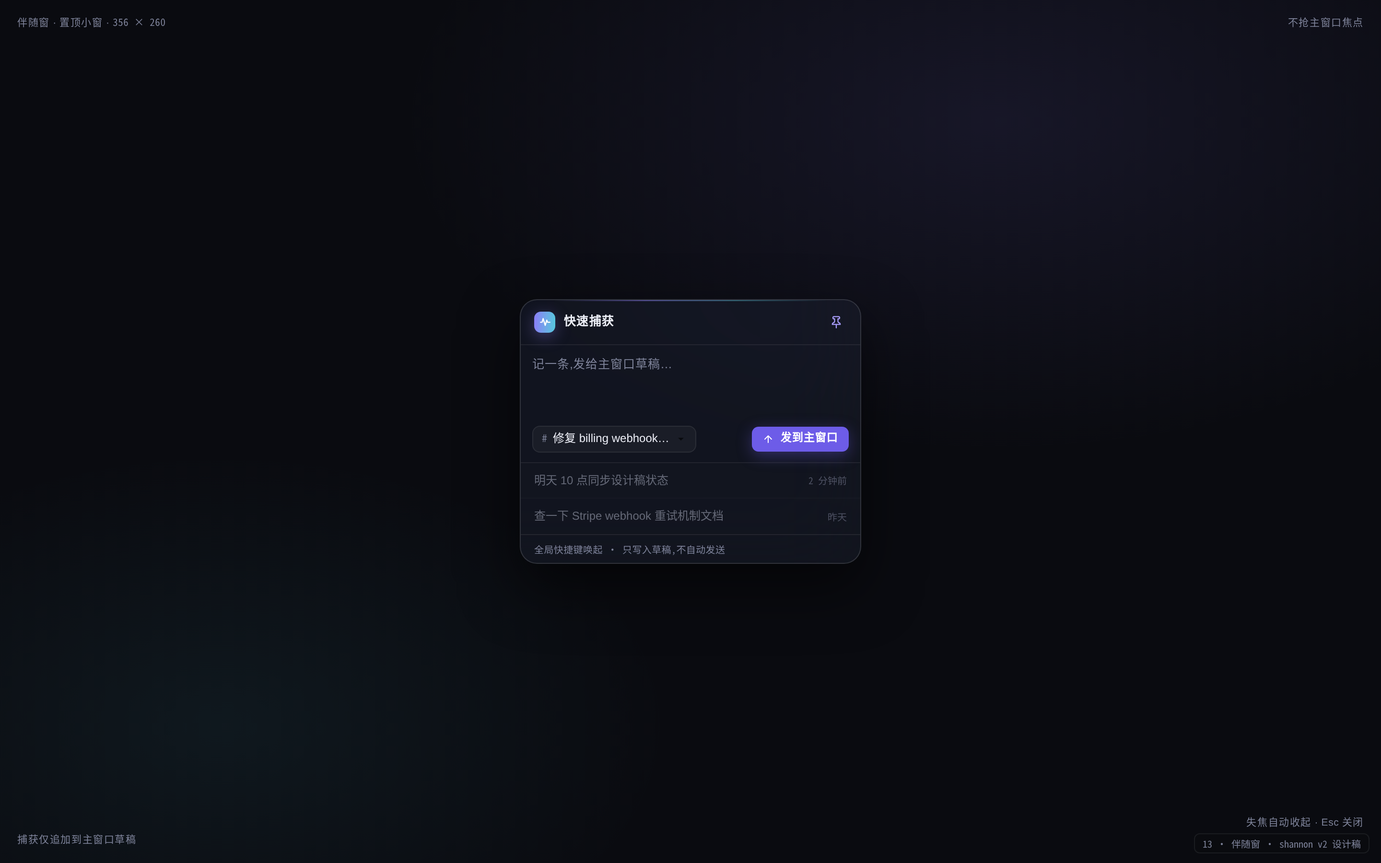
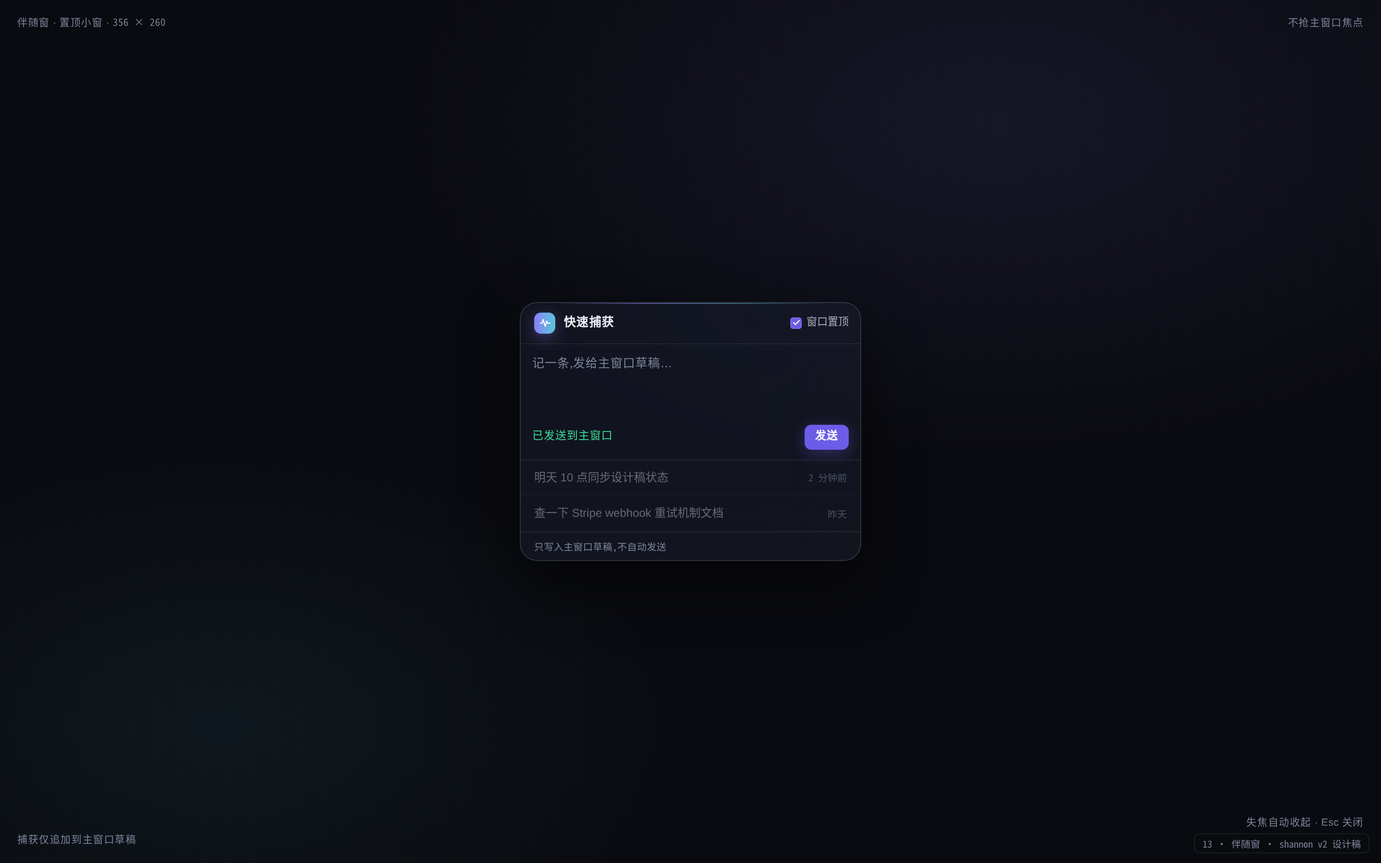
docs(design): 设计稿重绘收口——累积裁决折回 14 页 + 视觉收敛批 review doc 落库
对账 10 项（4 已在/6 按已落地形态重绘）：02/03 按 02c 提案折叠 composer D1-D5（+菜单/
权限当前档 chip/用量 38% chip/模型 chip/effort gauge），顺笔解除 R2 §7-C2 规格张力并删
/review 占位句（§7.1-⑤ 选 b）；06 峰值 KPI 改「峰值 X / 预算 Y（Z%）」（T2）；02c S3
会话峰值 % + 预算余；02 气泡 16px 右上直角实体紫（= MessageBubble.tsx:690）与「思考中…」
分态；13 companion 文案对齐实现；11 补「≥1280 双栏」规格注记（B1）；12-appearance 色板
accent #7aa2f7→#8b7cf7（ANSI 终端蓝不动）；--mono=JetBrains Mono 与 .ambient 逐值核对。
截图 6 张同名重出（1440×900 @2x，assets/shot.mjs），未改页不出图。
r4 review doc（S1 裁决 B/W4 逐页表/RD 对账表 + PR #411 合并记录）随本 PR 落库。

diff --git a/docs/design/ui-redesign-2026-10/pages/02-chat.html b/docs/design/ui-redesign-2026-10/pages/02-chat.html
@@ -36,6 +36,7 @@
   <symbol id="i-gear" viewBox="0 0 24 24"><circle cx="12" cy="12" r="3"/><path d="M19.4 15a1.65 1.65 0 0 0 .33 1.82l.06.06a2 2 0 1 1-2.83 2.83l-.06-.06a1.65 1.65 0 0 0-1.82-.33 1.65 1.65 0 0 0-1 1.51V21a2 2 0 1 1-4 0v-.09a1.65 1.65 0 0 0-1-1.51 1.65 1.65 0 0 0-1.82.33l-.06.06a2 2 0 1 1-2.83-2.83l.06-.06a1.65 1.65 0 0 0 .33-1.82 1.65 1.65 0 0 0-1.51-1H3a2 2 0 1 1 0-4h.09a1.65 1.65 0 0 0 1.51-1 1.65 1.65 0 0 0-.33-1.82l-.06-.06a2 2 0 1 1 2.83-2.83l.06.06a1.65 1.65 0 0 0 1.82.33h.08a1.65 1.65 0 0 0 1-1.51V3a2 2 0 1 1 4 0v.09a1.65 1.65 0 0 0 1 1.51h.08a1.65 1.65 0 0 0 1.82-.33l.06-.06a2 2 0 1 1 2.83 2.83l-.06.06a1.65 1.65 0 0 0-.33 1.82v.08a1.65 1.65 0 0 0 1.51 1H21a2 2 0 1 1 0 4h-.09a1.65 1.65 0 0 0-1.51 1z"/></symbol>
   <symbol id="i-folder" viewBox="0 0 24 24"><path d="M22 19a2 2 0 0 1-2 2H4a2 2 0 0 1-2-2V5a2 2 0 0 1 2-2h5l2 3h9a2 2 0 0 1 2 2z"/></symbol>
   <symbol id="i-chart" viewBox="0 0 24 24"><path d="M18 20V10M12 20V4M6 20v-6"/></symbol>
+  <symbol id="i-gauge" viewBox="0 0 24 24"><path d="M20.5 14.5a8.5 8.5 0 1 0-17 0"/><path d="M12 14.5l3.6-3.6"/></symbol>
   <symbol id="i-db" viewBox="0 0 24 24"><ellipse cx="12" cy="5" rx="9" ry="3"/><path d="M21 12c0 1.66-4 3-9 3s-9-1.34-9-3M3 5v14c0 1.66 4 3 9 3s9-1.34 9-3V5"/></symbol>
   <symbol id="i-grid" viewBox="0 0 24 24"><path d="M3 3h7v7H3zM14 3h7v7h-7zM14 14h7v7h-7zM3 14h7v7H3z"/></symbol>
   <symbol id="i-bolt" viewBox="0 0 24 24"><path d="M13 2L3 14h9l-1 8 10-12h-9l1-8z"/></symbol>
@@ -141,13 +142,16 @@
     <div class="content">
       <div class="stream">
 
-        <!-- 用户消息 -->
+        <!-- 用户消息(气泡形制见 shannon-ui.css .msg-user —— 2026-10-15 按 R3 §4 收口回改:
+             实体亮紫底/深紫字/右上直角,MessageBubble.tsx:690 bg-primary-fixed rounded-tr-none) -->
         <div class="msg-user">生产环境的 billing webhook 一直在报签名校验失败,帮我定位一下原因并修复。</div>
 
         <!-- 助手回合 -->
         <div class="msg-ai">
           <div class="avatar"><svg><use href="#i-logo"/></svg></div>
           <div class="body">
+            <!-- T1(视觉收敛批已落地):完成态思考头 = 「已思考 N 秒」(reasoning_duration_ms
+                 可推导时);推导不出 → 素「已思考」,绝不编造时长(MessageBubble.tsx:799)。 -->
             <div class="think">
               <div class="h"><svg class="ic"><use href="#i-spark"/></svg> 已思考 6 秒<svg class="ic" style="margin-left:6px"><use href="#i-chev-d"/></svg></div>
               <p class="mt8">签名校验失败常见于:密钥轮换后未同步、时间戳容差、payload 编码差异。先看 webhook 验签代码和最近一次失败日志,再对照 Stripe 文档的签名规范。</p>
@@ -232,7 +236,9 @@
           <div class="avatar"><svg><use href="#i-logo"/></svg></div>
           <div class="body">
             <div class="think">
-              <div class="h"><svg class="ic"><use href="#i-spark"/></svg> 正在整理升级注意事项…</div>
+              <!-- 进行中思考头 = 「思考中…」(chat.streaming.thinking;完成态才挂时长,
+                   R3 §4 分态裁决 + StreamingResponse.tsx:80) -->
+              <div class="h"><svg class="ic"><use href="#i-spark"/></svg> 思考中…</div>
             </div>
             <div class="toolstack">
               <button class="tool">
@@ -253,39 +259,34 @@
       <div class="composer aurora-line">
         <div class="ta"><textarea rows="2" placeholder="回复 Shannon,或输入 / 唤起技能、@ 引用文件…"></textarea></div>
         <div class="compose-row">
-          <!-- 2026-10-14 R2:词汇按权限命名 v2 回改(与 02c D7 同口径)——
-               四档主词 = 询问 / 自动编辑 / 计划 / 全自动,对齐实现 approvalModes.ts 单词汇表;
-               副语见 02c S4 弹层。 -->
-          <div class="seg">
-            <button><svg class="ic"><use href="#i-shield"/></svg>询问</button>
-            <button class="on"><svg class="ic"><use href="#i-edit"/></svg>自动编辑</button>
-            <button>计划</button>
-            <button>全自动</button>
-          </div>
-          <button class="chip"><span class="cv">claude-sonnet-4-6</span><svg class="caret"><use href="#i-chev-d"/></svg></button>
-          <button class="chip">推理<span class="cv">标准</span><svg class="caret"><use href="#i-chev-d"/></svg></button>
-          <button class="chip"><svg class="ic"><use href="#i-at"/></svg><span class="cv">shannon-mono</span></button>
+          <!-- 2026-10-15 重绘收口:02c 裁决 D1-D5 折叠入主对话页(02c 提案 ②/A1-A4 形态,
+               与 ChatInput.tsx 落地一致)—— 规划/执行档位与权限四档分段移除(D1/D3):
+               权限 = 当前档 chip,点击弹四档下拉(逐档副语 + 高危提示,见 02c S4);
+               用量 = 38% chip(数字收编弹框,见 02c S3);effort = 可点 gauge chip(D2,
+               标准档低对比);@ 引用经 placeholder 教学,不占常驻位。词汇 = 权限命名 v2。 -->
+          <button class="iconbtn attach-dot"><svg class="ic"><use href="#i-plus"/></svg></button>
+          <button class="chip acc"><svg class="ic"><use href="#i-edit"/></svg><span class="cv">自动编辑</span><svg class="caret"><use href="#i-chev-d"/></svg></button>
+          <button class="chip" title="会话用量与上下文窗口"><svg class="ic"><use href="#i-chart"/></svg><span class="cv mono" style="font-size:11px">38%</span></button>
+          <button class="chip"><svg class="ic"><use href="#i-spark"/></svg><span class="cv">claude-sonnet-4-6</span><svg class="caret"><use href="#i-chev-d"/></svg></button>
+          <button class="chip"><svg class="ic"><use href="#i-gauge"/></svg>推理<span style="display:inline-flex;align-items:center;gap:2.5px"><i style="width:5.5px;height:5.5px;border-radius:99px;background:var(--vio-2)"></i><i style="width:5.5px;height:5.5px;border-radius:99px;background:var(--vio-2)"></i><i style="width:5.5px;height:5.5px;border-radius:99px;background:var(--vio-2)"></i><i style="width:5.5px;height:5.5px;border-radius:99px;background:rgba(255,255,255,.16)"></i></span><span class="cv">深</span><svg class="caret"><use href="#i-chev-d"/></svg></button>
           <span class="spacer"></span>
-          <button class="iconbtn attach-dot"><svg class="ic"><use href="#i-clip"/></svg></button>
           <button class="iconbtn"><svg class="ic"><use href="#i-mic"/></svg></button>
           <button class="send stop"><svg class="ic"><use href="#i-stop"/></svg></button>
         </div>
       </div>
-      <!-- 规格标注(F-9 响应式降级,非 UI 元素) -->
+      <!-- 规格标注(F-9 响应式降级,非 UI 元素;2026-10-15 按 02c D3「各宽度同一形态」
+           口径回改 —— R2 §7-C2 张力解除) -->
       <div style="max-width:792px;margin:8px auto 0;text-align:center;font-size:10.5px;color:var(--t3);border:1px dashed var(--hair);border-radius:8px;padding:4px 10px">
-        响应式:&lt;1360px 右停靠自动折叠(图标呼出) · &lt;1200px 执行模式折叠为「当前档 chip」,三要素恒可达
+        响应式:&lt;1360px 右停靠自动折叠(图标呼出) · composer 控件各宽度同一形态(02c D3,无 1200px 断点折叠;&lt;1200px 仅 gauge 四点收缩为 icon+档位词)
       </div>
     </div>
 
-    <!-- 状态条 -->
+    <!-- 状态条(02c 裁决 D5:仅目录 + 分支,缺席即隐藏 —— 上下文/缓存/花费/预算数字
+         由用量 %chip → SessionUsageDialog 承载(02c S3);r4 W4 已登记「无会话统计数字
+         非缺口」,本稿据此移除旧状态条数字段) -->
     <div class="statusbar">
       <span class="seg2"><svg class="ic"><use href="#i-folder"/></svg>~/work/shannon/shannon-mono</span>
       <span class="seg2"><svg class="ic"><use href="#i-branch"/></svg>fix/billing-webhook</span>
-      <span class="spacer"></span>
-      <span class="seg2"><svg class="ic"><use href="#i-db"/></svg>上下文 38% · 74k/200k</span>
-      <span class="seg2" style="color:var(--ok)">缓存命中 92%</span>
-      <span class="seg2">本会话 <b class="money" style="color:var(--t2)">$0.087</b></span>
-      <span class="seg2">预算余 $19.91</span>
     </div>
   </div>
 

diff --git a/docs/design/ui-redesign-2026-10/pages/03-chat-review.html b/docs/design/ui-redesign-2026-10/pages/03-chat-review.html
@@ -46,6 +46,7 @@
   <symbol id="i-gear" viewBox="0 0 24 24"><circle cx="12" cy="12" r="3"/><path d="M19.4 15a1.65 1.65 0 0 0 .33 1.82l.06.06a2 2 0 1 1-2.83 2.83l-.06-.06a1.65 1.65 0 0 0-1.82-.33 1.65 1.65 0 0 0-1 1.51V21a2 2 0 1 1-4 0v-.09a1.65 1.65 0 0 0-1-1.51 1.65 1.65 0 0 0-1.82.33l-.06.06a2 2 0 1 1-2.83-2.83l.06-.06a1.65 1.65 0 0 0 .33-1.82 1.65 1.65 0 0 0-1.51-1H3a2 2 0 1 1 0-4h.09a1.65 1.65 0 0 0 1.51-1 1.65 1.65 0 0 0-.33-1.82l-.06-.06a2 2 0 1 1 2.83-2.83l.06.06a1.65 1.65 0 0 0 1.82.33h.08a1.65 1.65 0 0 0 1-1.51V3a2 2 0 1 1 4 0v.09a1.65 1.65 0 0 0 1 1.51h.08a1.65 1.65 0 0 0 1.82-.33l.06-.06a2 2 0 1 1 2.83 2.83l-.06.06a1.65 1.65 0 0 0-.33 1.82v.08a1.65 1.65 0 0 0 1.51 1H21a2 2 0 1 1 0 4h-.09a1.65 1.65 0 0 0-1.51 1z"/></symbol>
   <symbol id="i-folder" viewBox="0 0 24 24"><path d="M22 19a2 2 0 0 1-2 2H4a2 2 0 0 1-2-2V5a2 2 0 0 1 2-2h5l2 3h9a2 2 0 0 1 2 2z"/></symbol>
   <symbol id="i-chart" viewBox="0 0 24 24"><path d="M18 20V10M12 20V4M6 20v-6"/></symbol>
+  <symbol id="i-gauge" viewBox="0 0 24 24"><path d="M20.5 14.5a8.5 8.5 0 1 0-17 0"/><path d="M12 14.5l3.6-3.6"/></symbol>
   <symbol id="i-db" viewBox="0 0 24 24"><ellipse cx="12" cy="5" rx="9" ry="3"/><path d="M21 12c0 1.66-4 3-9 3s-9-1.34-9-3M3 5v14c0 1.66 4 3 9 3s9-1.34 9-3V5"/></symbol>
   <symbol id="i-grid" viewBox="0 0 24 24"><path d="M3 3h7v7H3zM14 3h7v7h-7zM14 14h7v7h-7zM3 14h7v7H3z"/></symbol>
   <symbol id="i-bolt" viewBox="0 0 24 24"><path d="M13 2L3 14h9l-1 8 10-12h-9l1-8z"/></symbol>
@@ -232,27 +233,25 @@
     <!-- composer 恒见(L1 玻璃 + 极光发丝线) -->
     <div class="composer-wrap">
       <div class="composer aurora-line">
-        <div class="ta"><textarea rows="2" placeholder="对改动提问,或 /review 生成评审意见…"></textarea></div>
+        <!-- 2026-10-15 重绘收口:02c 裁决 D1-D5 折叠入本页(形态注释与 02-chat 同源)。
+             占位句原为「对改动提问,或 /review 生成评审意见…」—— /review 自动评审意见
+             功能未立项(R2 §7.1-⑤ 裁决选 b),删句,实现维持不提示。 -->
+        <div class="ta"><textarea rows="2" placeholder="对改动提问…"></textarea></div>
         <div class="compose-row">
-          <!-- 2026-10-14 R2:词汇按权限命名 v2 回改(与 02c D7 同口径)——四档主词 = 询问 / 自动编辑 / 计划 / 全自动 -->
-          <div class="seg">
-            <button>询问</button>
-            <button class="on"><svg class="ic"><use href="#i-shield"/></svg>自动编辑</button>
-            <button>计划</button>
-            <button>全自动</button>
-          </div>
-          <button class="chip"><span class="cv">claude-sonnet-4-6</span><svg class="caret"><use href="#i-chev-d"/></svg></button>
-          <button class="chip">推理<span class="cv">标准</span><svg class="caret"><use href="#i-chev-d"/></svg></button>
-          <button class="chip"><svg class="ic"><use href="#i-at"/></svg><span class="cv">shannon-mono</span></button>
+          <button class="iconbtn attach-dot"><svg class="ic"><use href="#i-plus"/></svg></button>
+          <button class="chip acc"><svg class="ic"><use href="#i-edit"/></svg><span class="cv">自动编辑</span><svg class="caret"><use href="#i-chev-d"/></svg></button>
+          <button class="chip" title="会话用量与上下文窗口"><svg class="ic"><use href="#i-chart"/></svg><span class="cv mono" style="font-size:11px">38%</span></button>
+          <button class="chip"><svg class="ic"><use href="#i-spark"/></svg><span class="cv">claude-sonnet-4-6</span><svg class="caret"><use href="#i-chev-d"/></svg></button>
+          <button class="chip"><svg class="ic"><use href="#i-gauge"/></svg>推理<span style="display:inline-flex;align-items:center;gap:2.5px"><i style="width:5.5px;height:5.5px;border-radius:99px;background:rgba(255,255,255,.16)"></i><i style="width:5.5px;height:5.5px;border-radius:99px;background:rgba(255,255,255,.16)"></i><i style="width:5.5px;height:5.5px;border-radius:99px;background:rgba(255,255,255,.16)"></i><i style="width:5.5px;height:5.5px;border-radius:99px;background:rgba(255,255,255,.16)"></i></span><span class="cv">标准</span><svg class="caret"><use href="#i-chev-d"/></svg></button>
           <span class="spacer"></span>
-          <button class="iconbtn attach-dot"><svg class="ic"><use href="#i-clip"/></svg></button>
           <button class="iconbtn"><svg class="ic"><use href="#i-mic"/></svg></button>
           <button class="send stop"><svg class="ic"><use href="#i-stop"/></svg></button>
         </div>
       </div>
-      <!-- 规格标注(F-9 响应式降级,非 UI 元素) -->
+      <!-- 规格标注(F-9 响应式降级,非 UI 元素;2026-10-15 按 02c D3「各宽度同一形态」
+           口径回改 —— R2 §7-C2 张力解除) -->
       <div style="max-width:792px;margin:8px auto 0;text-align:center;font-size:10.5px;color:var(--t3);border:1px dashed var(--hair);border-radius:8px;padding:4px 10px">
-        响应式:&lt;1360px 右停靠自动折叠(图标呼出) · &lt;1200px 执行模式折叠为「当前档 chip」,三要素恒可达
+        响应式:&lt;1360px 右停靠自动折叠(图标呼出) · composer 控件各宽度同一形态(02c D3,无 1200px 断点折叠;&lt;1200px 仅 gauge 四点收缩为 icon+档位词)
       </div>
     </div>
   </div>

diff --git a/docs/design/ui-redesign-2026-10/pages/13-companion.html b/docs/design/ui-redesign-2026-10/pages/13-companion.html
@@ -104,6 +104,10 @@
 <span class="desk-note dn-bl">捕获仅追加到主窗口草稿</span>
 <span class="desk-note dn-br">失焦自动收起 · Esc 关闭</span>
 
+<!-- 2026-10-15 重绘收口(R3 §4 遗留「companion 文案微差」):标题/占位句不变;
+     置顶 = 「窗口置顶」勾选项(非图标钮,CompanionPage.tsx:147);发送钮 = 「发送」;
+     行内状态 = 成功回执「已发送到主窗口」(至多一条:回执/错误/空);原「# 会话」
+     目标 chip 实现不存在,删除;底部契约句对齐 companion.footer.hint。 -->
 <div class="companion-win glass-2 aurora-line">
 
   <!-- 窗头 -->
@@ -111,25 +115,18 @@
     <div class="brandmark bm"><svg><use href="#i-logo"/></svg></div>
     <span class="cw-title">快速捕获</span>
     <span class="spacer"></span>
-    <button class="iconbtn" style="width:26px;height:26px" title="置顶">
-      <svg class="ic" viewBox="0 0 24 24" style="width:14px;height:14px;color:var(--vio-2)">
-        <path d="M12 17v5"/>
-        <path d="M9 10.76a2 2 0 0 1-1.11 1.79l-1.78.9A2 2 0 0 0 5 15.24V16h14v-.76a2 2 0 0 0-1.11-1.79l-1.78-.9A2 2 0 0 1 15 10.76V6h1a2 2 0 0 0 0-4H8a2 2 0 0 0 0 4h1z"/>
-      </svg>
-    </button>
+    <label style="display:inline-flex;align-items:center;gap:5px;font-size:11px;color:var(--t2);cursor:pointer">
+      <span style="width:12px;height:12px;border-radius:3px;border:1px solid rgba(139,124,247,.5);background:var(--vio-deep);display:inline-grid;place-items:center;flex:none"><svg class="ic" style="width:9px;height:9px;color:#fff;stroke-width:3"><use href="#i-check"/></svg></span>窗口置顶
+    </label>
   </div>
 
   <!-- 输入 -->
   <div class="cw-body">
     <textarea rows="3" placeholder="记一条,发给主窗口草稿…"></textarea>
     <div class="cw-row">
-      <button class="chip">
-        <span class="mono" style="font-size:11px;color:var(--t3)">#</span>
-        <span class="cv">修复 billing webhook…</span>
-        <svg class="caret"><use href="#i-chev-d"/></svg>
-      </button>
+      <span style="font-size:11.5px;color:var(--ok)">已发送到主窗口</span>
       <span class="spacer"></span>
-      <button class="btn pri sm"><svg class="ic"><use href="#i-send"/></svg>发到主窗口</button>
+      <button class="btn pri sm">发送</button>
     </div>
   </div>
 
@@ -151,8 +148,8 @@
     </div>
   </div>
 
-  <!-- 底部 hint -->
-  <div class="cw-foot">全局快捷键唤起 · 只写入草稿,不自动发送</div>
+  <!-- 底部 hint(对齐 companion.footer.hint:「只写入主窗口草稿,不自动发送」) -->
+  <div class="cw-foot">只写入主窗口草稿,不自动发送</div>
 
 </div>
 <div class="mocktag">13 · 伴随窗 · shannon v2 设计稿</div>

diff --git a/docs/design/ui-redesign-2026-10/pages/02c-chat-composer-tidy.html b/docs/design/ui-redesign-2026-10/pages/02c-chat-composer-tidy.html
@@ -353,7 +353,7 @@
 
       <div class="statebox">
         <div class="sb-h">S3 · 会话用量弹框(D4 裁决)<span class="kbd">点击模型旁 38% 图标</span></div>
-        <div class="sb-d">上下文 / 缓存 / 花费 / 预算数字全部收进弹框;状态条只留目录与分支,不再显示数字与金额。</div>
+        <div class="sb-d">上下文 / 缓存 / 会话峰值 / 花费 / 预算数字全部收进弹框(峰值行为 T2 百分比形态);状态条只留目录与分支,不再显示数字与金额。</div>
         <div class="sb-stage" style="height:330px">
           <div class="cpop" style="left:50%;transform:translateX(-50%);bottom:126px;width:252px">
             <div class="csec">会话用量</div>
@@ -363,8 +363,12 @@
             </div>
             <div class="cdiv" style="margin-top:7px"></div>
             <div class="kv" style="padding:4px 12px"><span style="font-size:11px">缓存命中</span><b class="mono" style="color:var(--ok);font-size:11px">92%</b></div>
-            <div class="kv" style="padding:4px 12px"><span style="font-size:11px">窗口峰值</span><b class="mono" style="font-size:11px">96k</b></div>
-            <div class="kv" style="padding:4px 12px"><span style="font-size:11px">本会话花费 / 预算余</span><b class="mono" style="font-size:11px">$0.087 / $19.91</b></div>
+            <!-- T2(视觉收敛批已落地):峰值行 = 「会话峰值 X / 预算 Y(Z%)」 —— peak_used +
+                 窗口预算同在时渲染百分比形态(chat.input.usage.sessionPeak.pct),仅窗口时
+                 绝对值,两者皆缺 → 整行隐藏;绝不拿窗口当用量编百分比(SessionUsageDialog.tsx:66) -->
+            <div class="kv" style="padding:4px 12px"><span style="font-size:11px">会话峰值</span><b class="mono" style="font-size:11px">9.6万 / 20万（48%）</b></div>
+            <!-- 预算行口径 = 「花费 / 预算余」(余 = 上限 − 已花,可超支为负)+ 设置入口 -->
+            <div class="kv" style="padding:4px 12px"><span style="font-size:11px">$0.087 / $19.91 预算余</span><span class="chip" style="height:20px;font-size:10px;padding:0 8px"><svg class="ic" style="width:11px;height:11px"><use href="#i-chart"/></svg>设置会话预算…</span></div>
             <div class="cnote">数字缺席即隐藏(诚实契约);发送前预估行(草稿下方)不受影响。</div>
           </div>
           <div class="composer mini" style="bottom:44px">

diff --git a/docs/design/ui-redesign-2026-10/assets/shannon-ui.css b/docs/design/ui-redesign-2026-10/assets/shannon-ui.css
@@ -65,7 +65,9 @@ body {
   -webkit-font-smoothing: antialiased;
   overflow: hidden;
 }
-/* 页面环境光:极光余晖,极低强度,只出现在窗口上缘 */
+/* 页面环境光:极光余晖,极低强度,只出现在窗口上缘
+   (W1 已落地:实现 aurora-ambient 与本稿逐值一致,index.css:451;
+    浅色主题实现侧把两枚 alpha 减半 —— .05/.035,属应用侧细节,稿不改) */
 .ambient { position: fixed; inset: 0; pointer-events: none; z-index: 0;
   background:
     radial-gradient(1100px 340px at 22% -8%, rgba(139,124,247,.10), transparent 60%),
@@ -360,8 +362,13 @@ input, textarea { font: inherit; color: var(--t1); background: none; border: 0; 
 
 /* ---------- 消息流(对话页) ---------- */
 .stream { max-width: 792px; margin: 0 auto; padding: 26px 24px 30px; display: flex; flex-direction: column; gap: 22px; }
-.msg-user { align-self: flex-end; max-width: 78%; background: var(--vio-dim); border: 1px solid rgba(139,124,247,.28);
-  border-radius: 16px 16px 4px 16px; padding: 10px 14px; font-size: 13.5px; color: var(--t1); }
+/* 用户气泡(2026-10-15 重绘收口:R3 §4「用户气泡圆角/头像形态」按已落地形态回改 ——
+   MessageBubble.tsx:690 bg-primary-fixed + text-on-primary-fixed + rounded-2xl rounded-tr-none:
+   实体亮紫底 #e9ddff / 深紫字 #23005c(主题无关 fixed token),无描边,右上角直角,其余 16px) */
+.msg-user { align-self: flex-end; max-width: 78%; background: #e9ddff; color: #23005c;
+  border-radius: 16px 0 16px 16px; padding: 10px 14px; font-size: 13.5px; font-weight: 500;
+  box-shadow: var(--sh-1); }
+.msg-user b { font-weight: 650; }
 .msg-ai { display: flex; gap: 11px; }
 .msg-ai .avatar { width: 26px; height: 26px; border-radius: 8px; flex: none; margin-top: 2px;
   background: var(--grad-aurora); display: grid; place-items: center; color: #fff; box-shadow: 0 3px 12px rgba(139,124,247,.3); }

diff --git a/docs/design/ui-redesign-2026-10/pages/11-files.html b/docs/design/ui-redesign-2026-10/pages/11-files.html
@@ -190,7 +190,8 @@
               <div class="thumb"><svg class="ic" style="color:var(--warn)"><use href="#i-image"/></svg></div>
               <div class="fn">old-logo.ai</div>
               <div class="fm">1.2 MB · 08-11</div>
-              <span class="honest"><svg class="ic" style="width:11px;height:11px"><use href="#i-alert"/></svg>原文件已移动</span>
+              <!-- 文案对齐实现 office.files.missing(「原文件已移动或删除」) -->
+              <span class="honest"><svg class="ic" style="width:11px;height:11px"><use href="#i-alert"/></svg>原文件已移动或删除</span>
             </div>
             <div class="filecell">
               <div class="thumb"><svg class="ic"><use href="#i-play"/></svg></div>
@@ -227,6 +228,14 @@
             </div>
           </div>
 
+        </div>
+
+        <!-- 2026-10-15 收口注记:B1 预览面板已落地 —— ≥1280px = 本稿双栏
+             (1fr + 320px 预览卡,格内 打开/显示/来源回跳/收藏 全部回撤进卡);
+             <1280px 降级单栏(FilesPage.tsx:69 WIDE_QUERY)。提取徽章画在预览卡
+             (extracted_segments 门控,缺席不显示),网格格行不带徽章 —— 与实现一致。 -->
+        <div style="text-align:center;font-size:10.5px;color:var(--t3);border:1px dashed var(--hair);border-radius:8px;padding:4px 10px">
+          响应式:≥1280px 双栏(网格 + 320px 预览卡,格内临时操作回撤进卡) · &lt;1280px 降级单栏
         </div>
       </div>
     </div>

diff --git a/docs/design/ui-redesign-2026-10/pages/06-usage.html b/docs/design/ui-redesign-2026-10/pages/06-usage.html
@@ -166,10 +166,14 @@
             <div class="v">92<small>%</small></div>
             <div class="d"><span class="up">为你在本月省下 <span class="money">$6.71</span></span></div>
           </div>
+          <!-- 上下文峰值(2026-10-15 重绘收口,T2 已落地形态):值 = 峰值已用 token
+               (peak_context_used_tokens 跨会话取最大,Usage.tsx:747),副行 =
+               「{持有会话}（{峰值/窗口}%）」(usage.stat.contextPeak.pct);无数据 →
+               「—」+「暂无会话峰值」,绝不拿窗口 200k 当用量。 -->
           <div class="stat glass">
             <div class="k"><svg class="ic"><use href="#i-target"/></svg>上下文峰值</div>
-            <div class="v">61<small>%</small></div>
-            <div class="d"><span class="mono">200k</span> 窗口 · 修复 billing 会话</div>
+            <div class="v money">7.6万</div>
+            <div class="d">修复 billing webhook 签名校验（38%）</div>
           </div>
         </div>
 

diff --git a/docs/design/ui-redesign-2026-10/pages/12-settings-appearance.html b/docs/design/ui-redesign-2026-10/pages/12-settings-appearance.html
@@ -180,7 +180,9 @@
                 </div>
 
                 <div class="th on">
-                  <div class="sw2" style="background:linear-gradient(90deg,#1a1b26 62%,#7aa2f7 62%)"></div>
+                  <!-- W3(视觉收敛批已落地):tokyo-night 主色族已紫化为 Aurora 紫 #8b7cf7
+                       (themes.css:80);#7aa2f7 仅存于 xterm ANSI 终端蓝,不代表主题 accent -->
+                  <div class="sw2" style="background:linear-gradient(90deg,#1a1b26 62%,#8b7cf7 62%)"></div>
                   <div class="nm"><span class="t">tokyo-night</span>
                     <span class="spacer"></span>
                     <span class="st vio" style="height:16px;padding:0 7px;font-size:10px"><svg class="ic"><use href="#i-check"/></svg>当前</span>

diff --git a/docs/reviews/2026-10-15-visual-convergence-r4.md b/docs/reviews/2026-10-15-visual-convergence-r4.md
@@ -162,3 +162,38 @@ pub async fn get_outbound_defense_status() -> Result<OutboundDefenseStatus, Stri
 - `node scripts/contrast-audit.mjs`(cwd desktop/ui):**All theme token pairs pass AA**,exit 0。
 - `npx tsc --noEmit`:0 错;改动文件 `eslint --max-warnings 0`:0;`check-design-tokens.mjs`:0 error(13 条既有文档化 warning,无新增);`i18n-check.mjs`:OK。
 - 极光面上机验证(Playwright computedStyle):companion 根、memory 横幅、tasks 激活 tab、chat composer 的 `::before/::after` 渐变均实测在位;tokyo-night-light 抽查通过。
+
+---
+
+## RD · 设计稿重绘收口
+
[1 lines of base64/hex data omitted]
+
+**PR #411 合并记录**:feat/visual-convergence → dev,**merged 2026-10-16,CI 20 checks green**。
+
+### RD.1 对账表(批准的收口清单)
+
+| # | 项 | 页 | 状态 | 说明 |
+|---|---|---|---|---|
+| 1 | composer D1-D5 收敛 | 02 / 03 | **已重绘** | 两页仍画旧形制(四档分段 seg + 推理 chip + @ chip)→ 按 02c 提案 ②/A1-A4 折叠:`+` 菜单 / 权限当前档 chip(下拉=02c S4)/ 用量 38% chip / 模型 chip / effort gauge chip;02c 提案页自身**已在**(7534e0895 起,84b34d4ea 词汇 v2 收口)。顺笔按 02c D3「各宽度同一形态」口径回改两页 F-9 规格句(R2 §7-C2 张力解除) |
+| 2 | C2 文件库双栏预览(B1) | 11 | **已在 + 注记** | 320px 预览卡 + 格内操作回撤稿内已画;补「≥1280px 双栏 · <1280px 降级单栏」规格注记(= `FilesPage.tsx:69` WIDE_QUERY,已落地) |
+| 3 | F-9 抽取徽标(B2) | 11 | **已在(按已落地形态注记)** | 「已提取 12 段」徽章稿内已画在预览卡——与实现一致(`files-preview-extracted` 同位,extracted_segments 门控,缺席不显示);**格行不带徽章是实现形态,故不给网格卡补画** |
+| 4 | 06 用量口径(T2 峰值形态) | 06 + 02c | **按已落地形态重绘** | 06 KPI:值=峰值已用「7.6万」+ 副行「修复 billing webhook 签名校验(38%)」(`usage.stat.contextPeak.pct`),旧「61% · 200k 窗口」撤销;02c S3:「窗口峰值 96k」→「会话峰值 9.6万 / 20万(48%)」,预算行 →「$0.087 / $19.91 预算余」+ 设置入口 |
+| 5 | 气泡圆角(R3 §4 用户气泡圆角/头像形态) | 02(CSS) | **按已落地形态重绘** | `.msg-user` → 实体 `#e9ddff` 底 / `#23005c` 字、16px 圆角右上直角(rounded-tr-none)、去描边(= `MessageBubble.tsx:690` bg-primary-fixed);旧「半透明紫+描边、右下 4px」撤销 |
+| 6 | ask 档描述两侧收口(R3 §4.1) | 02c | **已在** | 02c S4 四档副语已与实现 `settings.general.approvalMode.*` 逐字一致(84b34d4ea D7 收口);下拉容器两侧同为 min-w-56 不折行——**无残差,不重绘** |
+| 7 | companion 文案微差(R3 §4.1) | 13 | **按已落地形态重绘** | 「发到主窗口」→「发送」;foot →「只写入主窗口草稿,不自动发送」;置顶图标钮 →「窗口置顶」勾选项;「# 会话」chip 实现不存在 → 删,改行内状态「已发送到主窗口」(= `companion.*` i18n) |
+| 8 | 03 主区整宽评审 + 已丢失卡整卡虚线(R3 §4.1) | 03 / 11 | **已在** | 设计 03 已画主区整宽评审(review-wrap,app 侧仍挂账);设计 11 已画整卡虚线+琥珀徽章;顺笔 ③:/review 占位句删除(R2 §7.1-⑤ 裁决选 b:功能未立项)→ 03 占位改「对改动提问…」并留注 |
+| 9 | T1「已思考 N 秒」 | 02 | **已在 + 分态补齐** | 完成态「已思考 6 秒」已在(r4 前入稿);进行中「正在整理升级注意事项…」→「思考中…」(R3 §4 分态 + `chat.streaming.thinking`),注记诚实门控(无时长 → 素「已思考」) |
+| 10 | Token 对齐(mono / 旧蓝残留) | CSS + 12-appearance | **已在 + 1 处已重绘** | `--mono` 已是 JetBrains Mono 首位、品牌紫已 `#8b7cf7` 领衔、`.ambient` 与 W1 逐值一致(加注浅色 50% alpha 属应用侧);全稿唯一旧蓝残留 = 12-appearance tokyo-night 色板 accent `#7aa2f7` → **`#8b7cf7`**(ANSI 终端蓝按 W3 裁决不动,色板表主题 accent) |
+
+### RD.2 刻意不画(登记)
+
+- **r4 W4 遗留登记的呈现层差异一律维持设计稿原样,不反向回改**:01 品牌区结构、05 stat 大卡 vs 紧凑 chips、06 KPI 横排解剖(2026-09-29 共享组件裁决)、10 瀑布 vs 回合卡(结构登记)、12-models 供应商卡 vs 性能策略 IA、12-connections callout vs 行式列表——这些登记的含义是「实现不重建」,不是「设计稿要改」。
+- **07 卡足「注入扫描 ✓ 已签名 ✓」措辞诚实化 / 「去授权」文案、安全白皮书按钮注记、06「每日成本」首屏口径**(R3 §4 设计稿侧顺笔三项):不在本批批准清单,留待下批顺笔。
+- **F-9 响应式注记只落在被重绘的 02/03**:其余页的同族规格句未在批准清单内,未触。
+- **02 权限 chip 描边色**:实现用 `border-warning/50`(amber 系)而稿画 `.chip.acc` 紫——02c 已裁决稿形态为紫,未作为裁决登记,稿维持;实现侧是否跟紫留实现批自决。
+- **msg-user 悬浮操作条**(copy/edit/branch):交互态,静态稿不画,与既稿 AI 侧 hover 图标行同待遇。
+
+### RD.3 截图
+
+改动页 7 张重出:02-chat / 03-chat-review / 02c-chat-composer-tidy / 06-usage / 11-files / 12-settings-appearance / 13-companion(同名覆盖,1440×900 @2x)。其中 **02c 视口截图像素不变**(S3 弹框改动在首屏折叠线以下),文件字节一致,git 无 diff;其余 6 张内容可见变化。未改动页一律不出图,保持 diff 可审。

diff --git a/docs/design/ui-redesign-2026-10/README.md b/docs/design/ui-redesign-2026-10/README.md
@@ -179,3 +179,24 @@
 3. **顺带② · 06-usage 页头「导出 CSV」核对**:稿内已有(`06-usage.html:146`,与实现 `Usage.tsx` M5a / `usage.export.csv` 一致),未改动。
 
 **截图(收口批)**:02-chat / 03-chat-review / 12-settings / 12-settings-security / 12-settings-general 已重新出图覆盖同名 PNG(06-usage 未改动故不出图)。
+
+---
+
+## 7. 2026-10-15 重绘收口批(设计稿向已落地实现对账)
+
+> 依据 [视觉收敛 R4](../../reviews/2026-10-15-visual-convergence-r4.md) §RD:PR #411(视觉收敛批,2026-10-16 合入,CI 20 checks green)把 W1-W3/T1/T2 与历轮裁决落进了实现;本批把**已在实现里成立的形态**对账回 14 页设计稿——原则不变:**实现是事实标准,设计稿向实现对齐**。逐项对账表见 R4 §RD。
+
+1. **02 / 03 · composer 02c D1-D5 折叠**:主对话页与评审页的 composer 从「权限四档分段 + 推理 chip + @ chip」旧形制,折叠为 02c 提案 ② 的收敛形态——`+` 菜单(附件/临时会话角标)、权限当前档 chip(下拉四档见 02c S4)、用量 38% chip(数字入弹框,02c S3)、模型 chip、effort 可点 gauge chip;`@` 引用经 placeholder 教学,不占常驻位。规格标注句按 02c D3「各宽度同一形态」口径回改(解除 R2 §7-C2 的 F-9 句式张力;<1200px 仅 gauge 四点收缩)。
+2. **02 · 状态条 D5 瘦身**:移除 上下文 38% / 缓存命中 92% / 本会话 $0.087 / 预算余 $19.91 四段数字——02c 裁决 D5 有意移入 SessionUsageDialog(r4 W4 已登记「非缺口」),状态条仅留 目录 + 分支。
+3. **02 · 用户气泡按 R3 §4 收口**(shannon-ui.css `.msg-user`):实体亮紫底 `#e9ddff` / 深紫字 `#23005c`(主题无关 fixed token),`rounded-2xl rounded-tr-none`(16px、右上直角),去描边——与 `MessageBubble.tsx:690` 一致;原「半透明紫底+描边、右下 4px」旧形制撤销。
+4. **02 · 思考头分态补齐**:完成态「已思考 6 秒」维持(T1,时长可推导才显示,缺席 → 素「已思考」);进行中「正在整理升级注意事项…」→「思考中…」(`chat.streaming.thinking`,R3 §4 分态裁决)。
+5. **02c · S3 用量弹框 T2 形态**:「窗口峰值 96k」→「会话峰值 9.6万 / 20万(48%)」(`chat.input.usage.sessionPeak.pct`,peak_used+窗口预算同在才渲染百分比,皆缺整行隐藏);预算行改「$0.087 / $19.91 预算余」+「设置会话预算…」入口(花费/预算余口径,W7)。
+6. **06 · 上下文峰值 KPI 对齐 T2**:值 = 峰值已用 token(跨会话取最大,「7.6万」),副行 = 「{持有会话}({峰值/窗口}%)」;原「61% · 200k 窗口」旧口径撤销——绝不拿窗口当用量。
+7. **11 · B1/B2 注记与文案**:双栏预览卡与提取徽章此前已在稿内;补「≥1280px 双栏(1fr + 320px 预览卡,格内操作回撤进卡)· <1280px 降级单栏」规格注记(`FilesPage.tsx:69` WIDE_QUERY);丢失徽章文案对齐 `office.files.missing`「原文件已移动或删除」。
+8. **12-appearance · tokyo-night 色板紫化(W3)**:主题卡 swatch accent `#7aa2f7` → `#8b7cf7`(主色族已紫化,`themes.css:80`);`#7aa2f7` 仅存于 xterm ANSI 终端蓝,不代表主题 accent。
+9. **13 · companion 文案微差收口(R3 §4 遗留)**:「发到主窗口」→「发送」;底部契约句 →「只写入主窗口草稿,不自动发送」(`companion.footer.hint`);置顶图标钮 →「窗口置顶」勾选项;原「# 会话」目标 chip 实现不存在,删除,改为行内状态「已发送到主窗口」(回执/错误/空 至多一条)。
+10. **shannon-ui.css · 顺笔注记**:`.ambient` 加注 W1 已落地与浅色主题 50% alpha 属应用侧细节;`--mono`(JetBrains Mono)与品牌紫 `#8b7cf7` 核对不变。
+
+**刻意不改**(登记不回改):03 主区整宽评审形态与「已丢失卡整卡虚线」稿内已画(app 侧仍挂账 R3 §4,见 R4 §RD);11 提取徽章按已落地形态只画在预览卡(格行不带徽章);05 stat 大卡 / 06 KPI 横纵解剖 / 10 瀑布结构 / 12-models 供应商卡等 r4 W4 已登记的呈现层差异维持设计稿原样;07 卡足安全话术措辞、安全白皮书按钮注记、06「每日成本」首屏口径三项 R3 顺笔项不在本批批准清单,留待下批。
+
+**截图**:02-chat / 03-chat-review / 02c-chat-composer-tidy / 06-usage / 11-files / 12-settings-appearance / 13-companion 已用 `assets/shot.mjs`(1440×900 @2x,playwright 取自 desktop/ui)重新出图;其中 02c 的改动(S3 弹框)位于首屏折叠线以下,视口截图像素不变,文件字节一致故 git 无 diff。
